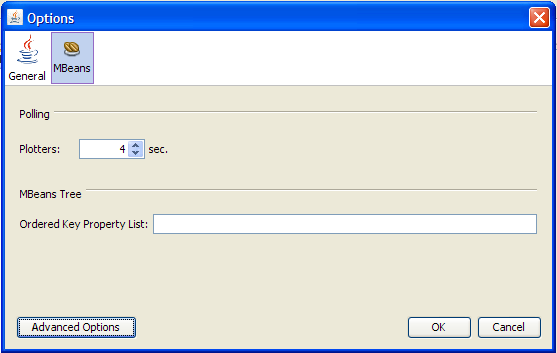
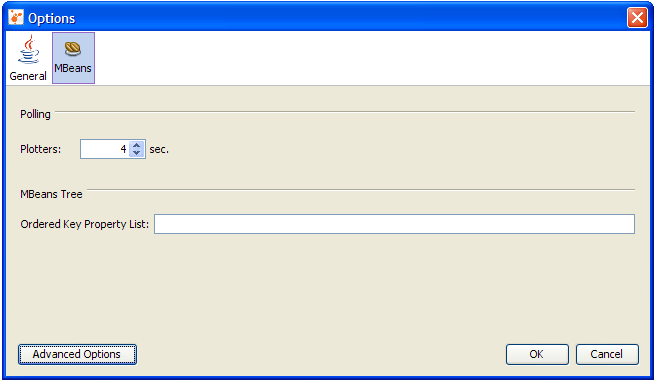
Updated screen caps to reflect final Beta 2 look and feel.
git-svn-id: https://svn.java.net/svn/visualvm~svn/trunk@837 ba0df5e5-9053-6d9f-941f-f112716aa91a

Changed region(s): [[0.0, 0.0, 1.0, 1.0]]

diff --git a/www/mbeans_tab.html b/www/mbeans_tab.html
@@ -57,7 +57,7 @@ com.sun.example:type=Triangle,side=isosceles,name=3</pre>
 <p>As far as the JMX technology is concerned, these objects will be  treated in exactly the same way. The order of the keys in the  object name makes no difference to the JMX technology. However, if VisualVM connects  to these MBeans and the default MBean tree rendering is used, then the  object <span class="style1">com.sun.example:type=Triangle,name=2,side=isosceles</span> will end up being created under the <span class="style1">Triangle</span> node, in a  node called <span class="style1">2</span>, which in turn will contain a sub-node called <span class="style1">isosceles</span>. The  other two <span class="style1">isosceles</span> triangles, <span class="style1">name=1</span> and <span class="style1">name=3</span>, will be grouped together under  <span class="style1">Triangle</span> in a different node called <span class="style1">isosceles</span>, as shown below.</p>
 <img src="images/docs/mbean-tree1.png" alt="Example of Unexpected MBean Tree Rendering" height="240" width="194" />
 <p>To avoid this problem, you can specify the order in which the  MBeans are displayed in the tree by supplying an ordered key property list. You can set the ordered key property list by selecting VisualVM's Tools | Options menu, and clicking on the MBeans button, as shown below.</p>
-<p><img src="images/docs/mbeans-options.png" alt="MBeans options menu" width="557" height="353" /> </p>
+<p><img src="images/docs/mbeans-options.png" alt="MBeans options menu"/></p>
 <p>The key property list system property takes a comma-separated list of keys, in  the order of your choosing, where each key must be a string representing an  object name key or an empty string. If a key specified in the  list does not apply to a particular MBean, then that key will  be discarded. If an MBean has more keys than the ones specified in  the key property list, then the key order defined by the value returned  by <span class="style1">ObjectName.getKeyPropertyListString()</span> will be used to complete the key order you define in the Ordered Key Property List field. Therefore, specifying an empty list of keys simply means that VisualVM will  display keys in the order they appear in the MBean's <span class="style1">ObjectName</span>.</p>
 <p>So, returning to the example of the Triangle MBeans cited above, you could chose configure VisualVM so that all  your MBeans will be grouped according to their <span class="style1">side</span> key property first, and  their <span class="style1">name</span> key property second. To do this, you would add the following in the Ordered Key Property List field in the MBeans tab of the Tools | Options menu: </p>
 <p><img src="images/docs/key-prop-list.png" alt="Setting the Key Property List" width="538" height="79" /></p>
@@ -81,7 +81,7 @@ com.sun.example:type=Triangle,side=isosceles,name=3</pre>
 <p>You can display additional information about an attribute by double-clicking on the attribute  value, if it appears in bold text. For example, if you click on  the value of the <span class="style1">HeapMemoryUsage</span> attribute of the <span class="style1">java.lang.Memory</span> MBean, you will  see a chart that looks something like the one shown below.</p>
 <img src="images/docs/attrib-values.png" alt="Viewing the values of MBean attributes."/>
 <p>Double-clicking on numeric attribute values will display a chart that plots changes in  that numeric value. For example, double-clicking on the <span class="style1">CollectionTime</span> attribute of the  Garbage Collector MBean  <span class="style1">MarksweepCompact</span> will plot the time spent performing garbage collection.</p>
-<p><img src="images/docs/attrib-plotting.png" alt="Plotting changes in an attribute value." width="587" height="395" /></p>
+<p><img src="images/docs/attrib-plotting.png" alt="Plotting changes in an attribute value."/></p>
 <p>You can also use VisualVM to set the values of writable attributes. The  value of a writable attribute is displayed in blue. Here you can  see the <span class="style1">Memory</span> MBean's <span class="style1">Verbose</span> attribute.</p>
 <img src="images/docs/mbean-writeable-attrib.png" alt="Setting an MBean's writable attribute value." />
 <p>You can set attributes by clicking on them and then editing them.  For example, to enable or disable the verbose tracing of the  garbage  collector in VisualVM, select the <span class="style1">Memory</span> MBean in the MBeans tab and set  the Verbose attribute to <span class="style1">true</span> or <span class="style1">false</span>. Similarly, the class loading MBean also  has a Verbose attribute, which can be set to enable or disable class  loading verbose tracing.</p>
@@ -92,7 +92,7 @@ com.sun.example:type=Triangle,side=isosceles,name=3</pre>
 <p><img src="images/docs/operation-done.png" alt="Result of performing a thread dump." width="465" height="312" /></p>
 <h2>MBean Notifications</h2>
 <p>You can subscribe to notifications from MBeans by selecting the Notifications tab, and clicking the Subscribe button at the bottom of the main pane. The  number of notifications received is displayed in square brackets, and the Notifications node  itself will appear in bold text when new notifications are received. The notifications  of the <span class="style1">AnagramsStats</span>  example MBean from the <a href="http://www.netbeans.org/kb/60/java/jmx-tutorial.html">JMX NetBeans Tutorial</a> are shown in the figure below.</p>
-<img src="images/docs/mbean-notifs.png" alt="Viewing an MBean's notifications." /><a name="gdeif" id="gdeif"></a>
+<img src="images/docs/mbean-notifs.png" alt="Viewing an MBean's notifications." />
 <h2>MBean Metadata</h2>
 <p>An MBean's metadata, or <span class="style1">MBeanInfo</span>, is displayed by the Metadata tab. This includes information like the MBean's object name, class name, a brief description,  and Descriptor information. The Metadata tab also shows the MBean's <span class="style1">MBeanAttributeInfo</span>. The Metadata tab for the <span class="style1">Memory</span> platform MBean is shown below.</p>
 <p><img src="images/docs/mbean-metadata.png" /></p>

diff --git a/www/jconsole_plugin_wrapper_tab.html b/www/jconsole_plugin_wrapper_tab.html
@@ -31,15 +31,15 @@
   <li>Now, if you highlight a running Java application, right-click, and  then select 'Open', you will see the JConsole Plugins tab in VisualVM's  right-hand window. However, no JConsole plug-ins are displayed in the tab yet, as shown below.
 <p> <img src="images/docs/jconsole-plugins-tab.png" alt="JConsole plug-in wrapper tab." width="880" height="489" /></p></li>
 
-<li>You can now import your custom JConsole plug-ins via the Tools | Options menu. </p>
-<p><img src="images/docs/options-panel.png" alt="The options panel." width="729" height="467" /></li>
+<li>You can now import your custom JConsole plug-ins via the Tools | Options menu.</li>
 <li>Click on 'JConsole Plugins'. </li>
 <li>Click on 'Add JAR/Folder' and navigate to your JConsole plug-in's Java archive (JAR) file. An example JConsole plug-in called JTop is provided with the Java SE 6 platform. The JTop application is a JDK demonstration that shows the CPU usage of all  threads running in the application. This demo is useful for identifying threads that  have high CPU consumption, and it has been updated to be used as  a JConsole plug-in as well as a standalone GUI. The  JAR file for the JTop plug-in is found <em>at <span class="style1">JDK_HOME</span></em><span class="style1">/demo/management/JTop/JTop.jar</span>, where <em><span class="style1">JDK_HOME</span></em> is the location where the JDK software is installed.
   <p><img src="images/docs/select-jconsole-plugin.png" alt="Selecting the JConsole plug-in." width="731" height="467" />    </li>
+<li>In the JConsole Plugins Options panel, you can also set the polling period. This option defines the regularity with which the JConsole tab will update the information displayed by the JConsole plug-ins displayed. 
 <li>Close the Options panel by clicking OK. 
-<li>In the main VisualVM interface,  close and then re-open the tab for the application you are monitoring. A JTop tab should now be visible in the JConsole Plugins tab.
-<p><img src="images/docs/jtop-plugin.png" alt="The JConsole plugin tab, showing the JTop plug-in." width="589" height="388" />
-<p>The JTop tab has been added, showing the CPU usage of the various threads running.
+<li>Restart VisualVM. A JTop tab should now be visible in the JConsole Plugins tab.
+  <p><img src="images/docs/jtop-plugin.png" alt="The JConsole plugin tab, showing the JTop plug-in."/>
+  <p>The JTop tab has been added, showing the CPU usage of the various threads running.  
 </ol>
 </body>
 </html>
